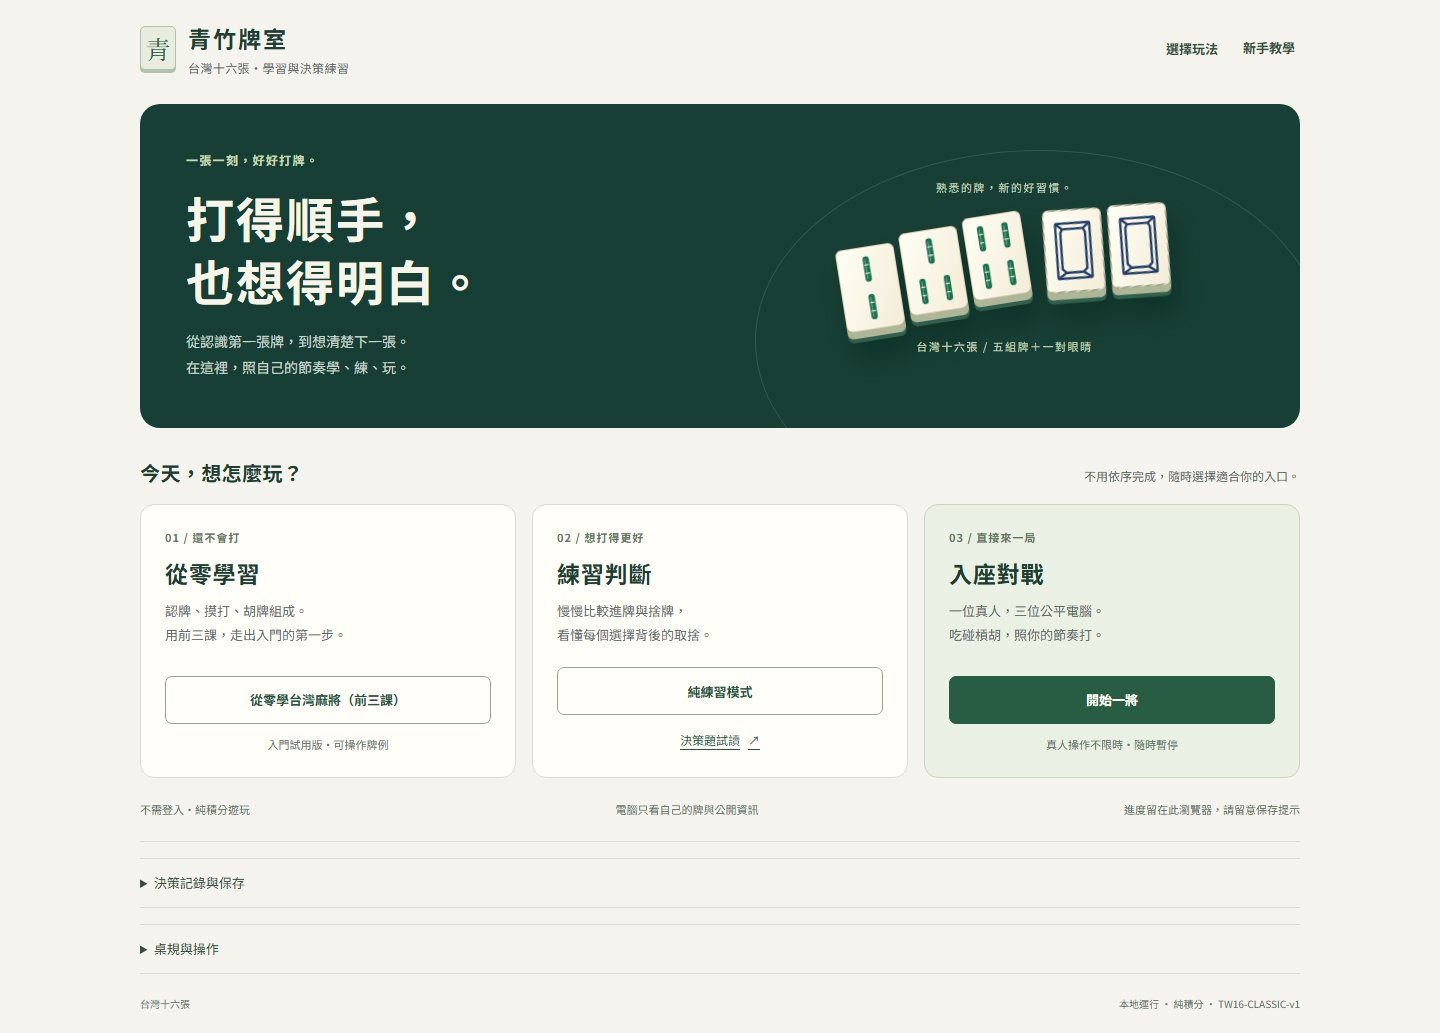
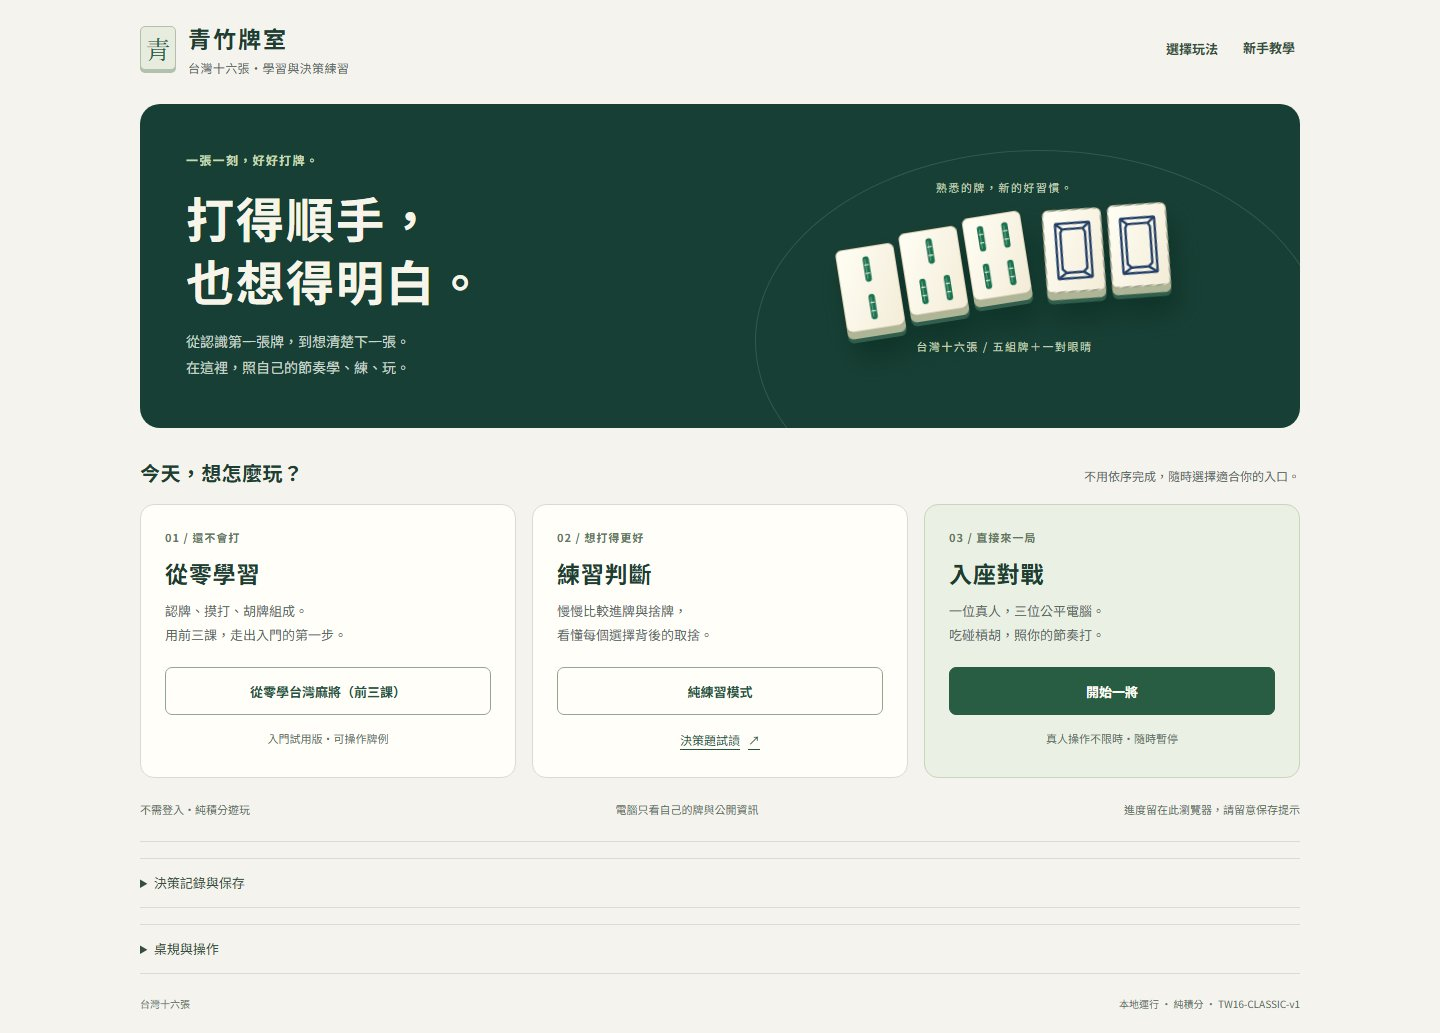
Align homepage route actions and refresh screenshots

Changed region(s): [[0.6562, 0.6196, 0.875, 0.7435], [0.1562, 0.6505, 0.2812, 0.7435]]

diff --git a/outputs/taiwan-mahjong/src/style.css b/outputs/taiwan-mahjong/src/style.css
@@ -39,7 +39,7 @@ body:has(.home-shell){background:#f4f3ed}
 .home-card-description{white-space:pre-line;font-size:13px;line-height:1.85;color:#58695f;margin:10px 0 20px}
 .home-shell .home-action{display:flex;justify-content:center;align-items:center;min-height:48px;padding:12px 8px;margin-top:auto;background:transparent;border:1px solid #92a78e;border-radius:7px;color:#28533e;font-size:13px;text-decoration:none;box-shadow:none;line-height:1.5}
 .home-shell .home-action:hover:not(:disabled){background:#eaf0e3;border-color:#285e49}
-.home-card-note{margin-top:12px;color:#63705f;font-size:11px;line-height:1.6;text-align:center}
+.home-card-note{display:flex;align-items:center;justify-content:center;min-height:44px;margin:2px 0 -8px;color:#63705f;font-size:11px;line-height:1.6;text-align:center}
 .home-card-play{background:#eaf0e3;border-color:#c9d5bc}
 .home-shell .home-action-primary{background:#285c43;border-color:#285c43;color:#fffef5}
 .home-shell .home-action-primary:hover:not(:disabled){background:#1d4935}
